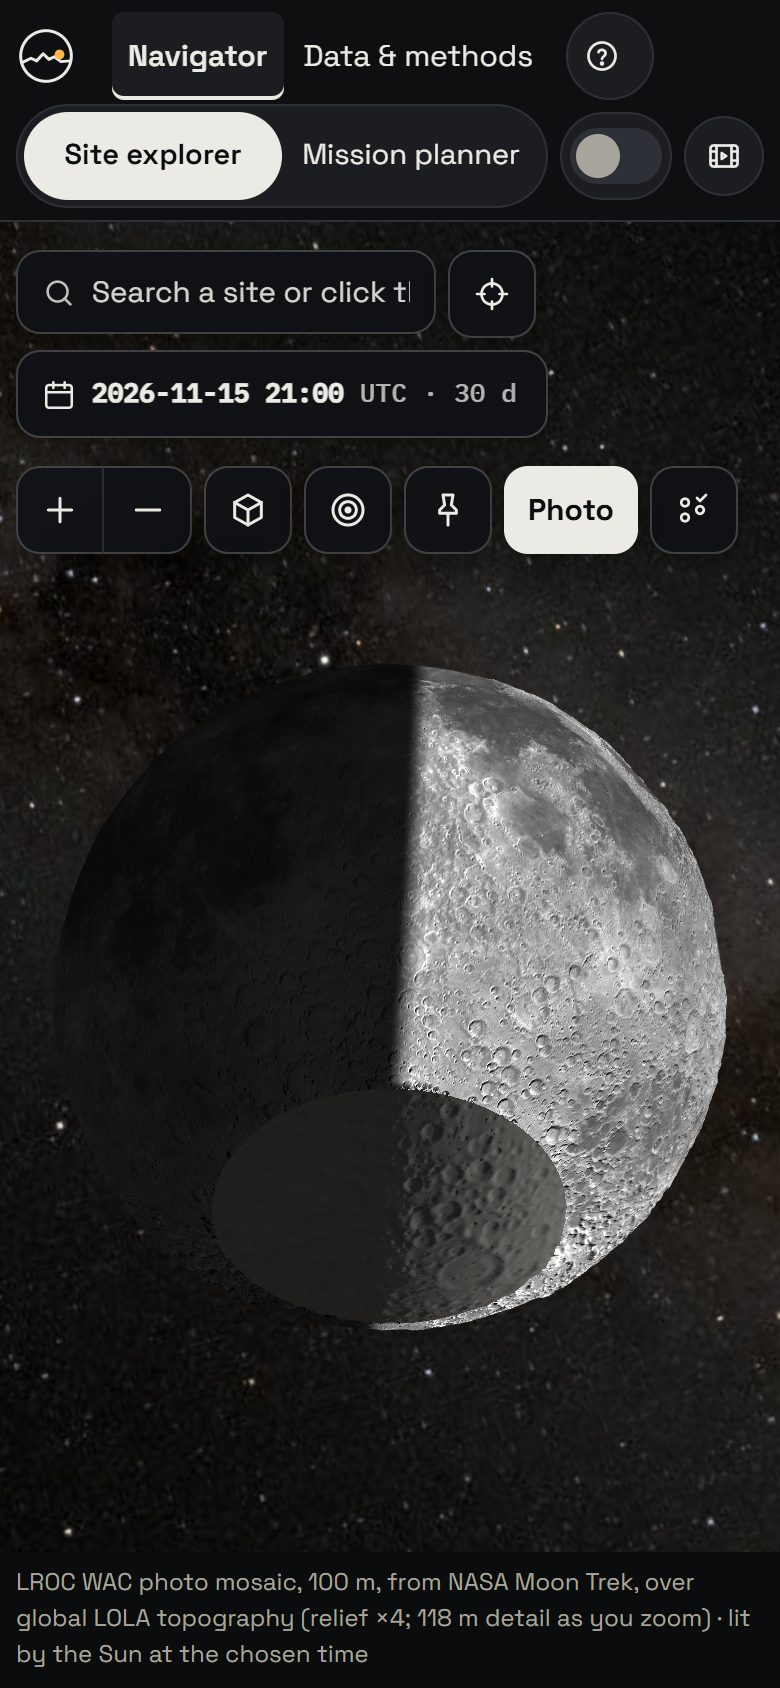
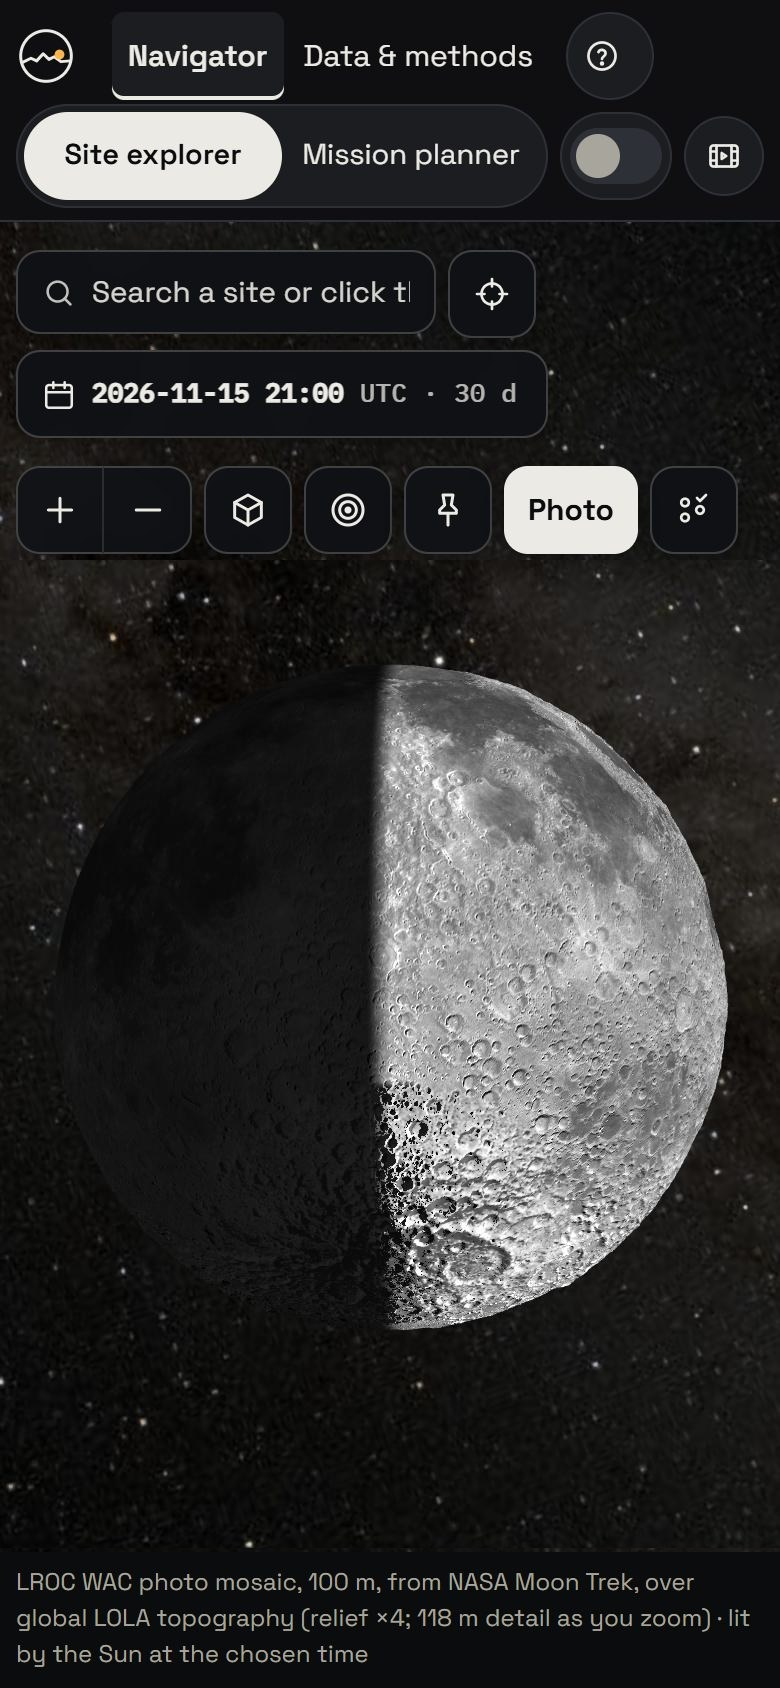
Globe: fall back to the global photo until the polar photo tile loads
South of 60 S the shader skipped the global photo and read only the polar photo
tiles, so the polar cap stayed flat grey until they arrived (or for good on a
slow phone). It now looks the polar tile up first and uses the always-loaded
photo base where none is loaded yet.

Also retake the Moon in the landing page's phone screenshot, which had been
captured with the pole still grey.

diff --git a/web/src/globe/shaders.ts b/web/src/globe/shaders.ts
@@ -334,7 +334,12 @@ void main() {
   bool photo = false;
   // share of the ground where the polar mosaic's photographed shadow is replaced by plain regolith (below)
   float fill = 0.0;
-  if (uPhotoMode > 0.5 && uMaxLevel >= 0.0 && !onlyPolar) {
+  // The polar photo tile under the pixel, if loaded. Until it is (slow network, a phone), the global photo base, which is
+  // always loaded, stands in: skipping it left the whole polar cap as flat grey.
+  vec2 qCell;
+  float qSize;
+  int qSlot = uPhotoMode > 0.5 && pw > 0.0 ? findPolar(uPolarPIndex, pxy, 256.0, qCell, qSize) : -1;
+  if (uPhotoMode > 0.5 && uMaxLevel >= 0.0 && (!onlyPolar || qSlot < 0)) {
     vec2 pCell;
     float pDeg;
     // never coarser than the photo base, which is always loaded: where a pixel spans more ground than a base cell
@@ -358,9 +363,6 @@ void main() {
   }
   // south of 60 S the polar mosaic (same gain as the polar map), eased in from the disc's edge
   if (uPhotoMode > 0.5 && pw > 0.0) {
-    vec2 qCell;
-    float qSize;
-    int qSlot = findPolar(uPolarPIndex, pxy, 256.0, qCell, qSize);
     if (qSlot >= 0) {
       // The mosaic keeps the shadows it was photographed with, nearly black near the pole (median 0.016 within 60 km
       // of it), and a few blocks without data (0). There the ground eases to the plain regolith grey, lit like the
